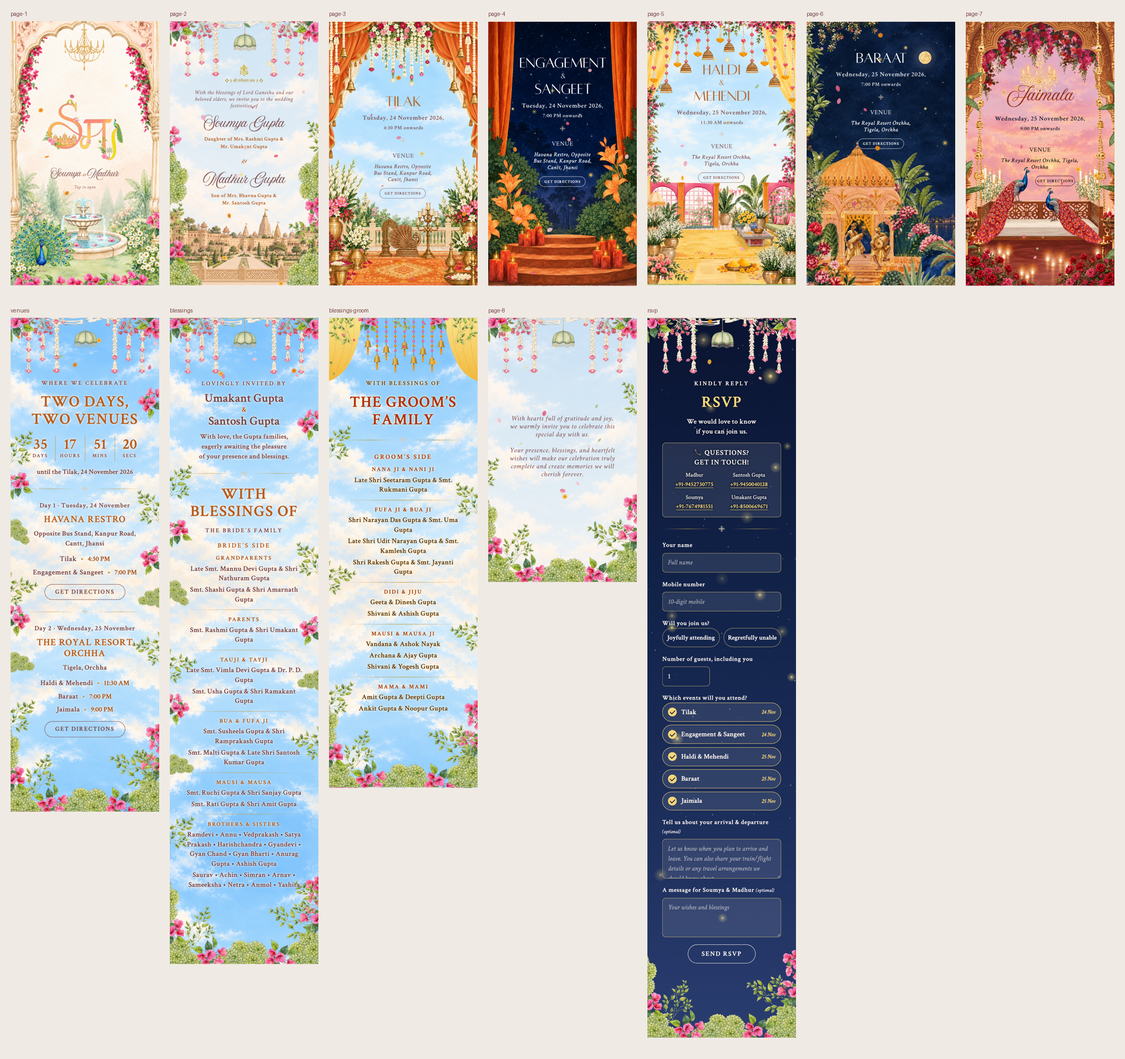
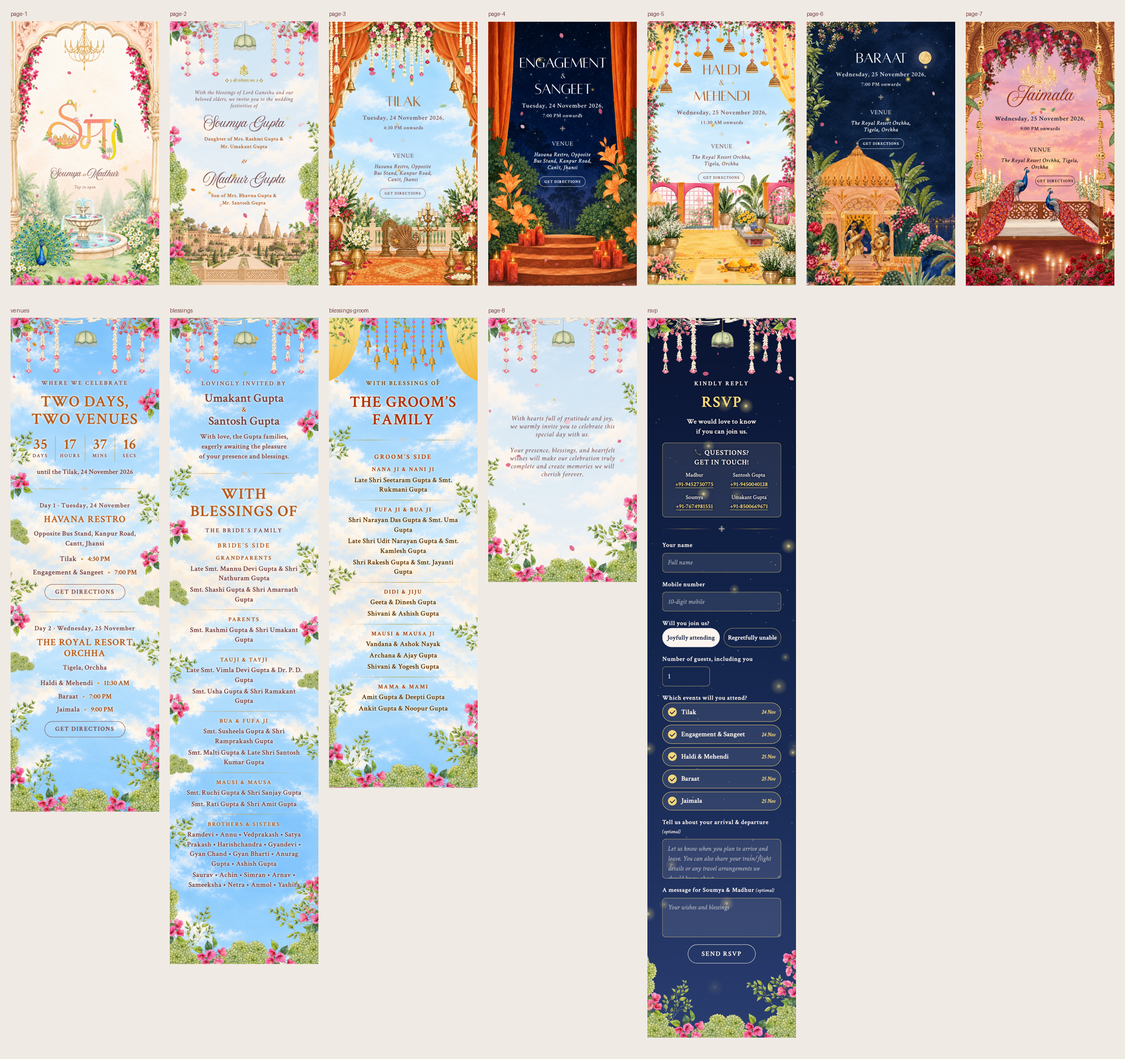
Reset RSVP form on each visit

diff --git a/Website/index.html b/Website/index.html
@@ -299,16 +299,16 @@ html.locked { overflow: hidden; }
     </ul>
   </aside>
   <div class="divider" aria-hidden="true"><span></span><img src="images/img-10-251x251.png" alt=""><span></span></div>
-  <form id="rsvp-form" novalidate>
+  <form id="rsvp-form" autocomplete="off" novalidate>
     <div class="f"><label for="rsvp-name">Your name</label>
-      <input id="rsvp-name" name="name" type="text" autocomplete="name" placeholder="Full name" aria-describedby="rsvp-name-error" required>
+      <input id="rsvp-name" name="name" type="text" autocomplete="off" placeholder="Full name" aria-describedby="rsvp-name-error" required>
       <p class="err field-err" id="rsvp-name-error" role="alert" hidden></p></div>
     <div class="f"><label for="rsvp-phone">Mobile number</label>
-      <input id="rsvp-phone" name="phone" type="tel" autocomplete="tel" inputmode="tel" placeholder="10-digit mobile" aria-describedby="rsvp-phone-error" required>
+      <input id="rsvp-phone" name="phone" type="tel" autocomplete="off" inputmode="numeric" placeholder="10-digit mobile" aria-describedby="rsvp-phone-error" required>
       <p class="err field-err" id="rsvp-phone-error" role="alert" hidden></p></div>
     <fieldset class="f" id="rsvp-attending" aria-describedby="rsvp-attending-error"><legend>Will you join us?</legend>
       <div class="choices">
-        <label class="pill"><input id="rsvp-yes" type="radio" name="attending" value="Joyfully attending" required><span>Joyfully attending</span></label>
+        <label class="pill"><input id="rsvp-yes" type="radio" name="attending" value="Joyfully attending" checked required><span>Joyfully attending</span></label>
         <label class="pill"><input id="rsvp-no" type="radio" name="attending" value="Regretfully unable"><span>Regretfully unable</span></label>
       </div><p class="err field-err" id="rsvp-attending-error" role="alert" hidden></p></fieldset>
     <div id="rsvp-more">
@@ -699,11 +699,16 @@ html.locked { overflow: hidden; }
   var raw = '';
   try { var q = new URLSearchParams(location.search); raw = q.get('to') || q.get('name') || ''; } catch (e) {}
   raw = raw.replace(/[\u0000-\u001f\u007f<>]/g, '').replace(/\s+/g, ' ').trim().slice(0, 60);
-  if (!raw) return;
   var el = document.getElementById('intro-to');
-  if (el) { el.textContent = 'Dear ' + raw; el.hidden = false; }
+  if (raw && el) { el.textContent = 'Dear ' + raw; el.hidden = false; }
   var f = document.getElementById('rsvp-name');
-  if (f && !f.value) f.value = raw;
+  function restoreInviteName() { if (f && raw) f.value = raw; }
+  restoreInviteName();
+  var form = document.getElementById('rsvp-form');
+  if (form) window.addEventListener('pageshow', function () {
+    form.reset();
+    restoreInviteName();
+  });
 })();
 </script>
 </body>

diff --git a/Source/pipeline/build.py b/Source/pipeline/build.py
@@ -528,16 +528,16 @@ EXTRA_SECTIONS = f"""
     </ul>
   </aside>
   {DIV}
-  <form id="rsvp-form" novalidate>
+  <form id="rsvp-form" autocomplete="off" novalidate>
     <div class="f"><label for="rsvp-name">Your name</label>
-      <input id="rsvp-name" name="name" type="text" autocomplete="name" placeholder="Full name" aria-describedby="rsvp-name-error" required>
+      <input id="rsvp-name" name="name" type="text" autocomplete="off" placeholder="Full name" aria-describedby="rsvp-name-error" required>
       <p class="err field-err" id="rsvp-name-error" role="alert" hidden></p></div>
     <div class="f"><label for="rsvp-phone">Mobile number</label>
-      <input id="rsvp-phone" name="phone" type="tel" autocomplete="tel" inputmode="tel" placeholder="10-digit mobile" aria-describedby="rsvp-phone-error" required>
+      <input id="rsvp-phone" name="phone" type="tel" autocomplete="off" inputmode="numeric" placeholder="10-digit mobile" aria-describedby="rsvp-phone-error" required>
       <p class="err field-err" id="rsvp-phone-error" role="alert" hidden></p></div>
     <fieldset class="f" id="rsvp-attending" aria-describedby="rsvp-attending-error"><legend>Will you join us?</legend>
       <div class="choices">
-        <label class="pill"><input id="rsvp-yes" type="radio" name="attending" value="Joyfully attending" required><span>Joyfully attending</span></label>
+        <label class="pill"><input id="rsvp-yes" type="radio" name="attending" value="Joyfully attending" checked required><span>Joyfully attending</span></label>
         <label class="pill"><input id="rsvp-no" type="radio" name="attending" value="Regretfully unable"><span>Regretfully unable</span></label>
       </div><p class="err field-err" id="rsvp-attending-error" role="alert" hidden></p></fieldset>
     <div id="rsvp-more">
@@ -1215,11 +1215,16 @@ html.locked {{ overflow: hidden; }}
   var raw = '';
   try {{ var q = new URLSearchParams(location.search); raw = q.get('to') || q.get('name') || ''; }} catch (e) {{}}
   raw = raw.replace(/[\\u0000-\\u001f\\u007f<>]/g, '').replace(/\\s+/g, ' ').trim().slice(0, 60);
-  if (!raw) return;
   var el = document.getElementById('intro-to');
-  if (el) {{ el.textContent = 'Dear ' + raw; el.hidden = false; }}
+  if (raw && el) {{ el.textContent = 'Dear ' + raw; el.hidden = false; }}
   var f = document.getElementById('rsvp-name');
-  if (f && !f.value) f.value = raw;
+  function restoreInviteName() {{ if (f && raw) f.value = raw; }}
+  restoreInviteName();
+  var form = document.getElementById('rsvp-form');
+  if (form) window.addEventListener('pageshow', function () {{
+    form.reset();
+    restoreInviteName();
+  }});
 }})();
 </script>
 </body>

diff --git a/Source/pipeline/check.py b/Source/pipeline/check.py
@@ -78,6 +78,7 @@ with sync_playwright() as p:
     check(pg.locator(".rsvp-contact-grid a[href^='tel:']").count() == 4, "four tap-to-call contact numbers appear above the RSVP")
     check(pg.locator("#rsvp-contact-h span").count() == 2, "contact heading is split over two lines")
     check("(optional)" in pg.locator("label[for='rsvp-travel']").inner_text() and "🚆" not in pg.locator("label[for='rsvp-travel']").inner_text(), "travel field is marked optional without an emoji")
+    check(pg.locator("#rsvp-phone").get_attribute("inputmode") == "numeric", "mobile phone field requests a numeric keyboard")
     pg.route("**/formResponse", lambda r, q: (sent.append(q.post_data), r.fulfill(status=200, body="ok")))
     pg.click("#intro-skip"); pg.wait_for_timeout(900)
     pg.evaluate("document.getElementById('rsvp').scrollIntoView()"); pg.wait_for_timeout(400)
@@ -98,7 +99,14 @@ with sync_playwright() as p:
     check(got == want, "attending reply maps to the Google Form exactly" + ("" if got == want else f"\n       sent {got}"))
     check(pg.is_visible("#rsvp-done"), "thank-you message shows")
 
-    pg.reload(); pg.wait_for_timeout(1200); pg.click("#intro-skip"); pg.wait_for_timeout(900)
+    pg.reload(); pg.wait_for_timeout(1200)
+    reset_state = pg.evaluate("""() => ({name: document.querySelector('#rsvp-name').value, phone: document.querySelector('#rsvp-phone').value,
+        attending: document.querySelector('#rsvp-yes').checked, guests: document.querySelector('#rsvp-guests').value,
+        events: [...document.querySelectorAll('#rsvp-events input')].filter(e => e.checked).length,
+        travel: document.querySelector('#rsvp-travel').value, message: document.querySelector('#rsvp-msg').value})""")
+    check(reset_state == {"name": "", "phone": "", "attending": True, "guests": "1", "events": 5, "travel": "", "message": ""},
+          "reload resets RSVP answers to the intentional defaults")
+    pg.click("#intro-skip"); pg.wait_for_timeout(900)
     pg.evaluate("document.getElementById('rsvp').scrollIntoView()"); pg.wait_for_timeout(400)
     pg.fill("#rsvp-name", "Decline Test"); pg.fill("#rsvp-phone", "9876543210"); pg.check("#rsvp-no"); pg.fill("#rsvp-msg", "Wishing you all the best")
     check(pg.locator("#rsvp-more").evaluate("e => e.hidden"), "decliners skip the attendee details")

diff --git a/Guides/OPEN-ITEMS.md b/Guides/OPEN-ITEMS.md
@@ -10,7 +10,7 @@ Use this list for work that is still pending. Check an item only after the chang
 - [ ] Review RSVP submission-error placement: the owner reports the error message appears near the submit button instead of immediately after the dialog box. The submit button has not been clicked, so this error state has not been reproduced or verified.
 - [ ] Investigate the reported Google Forms integration behavior: only the “Regretfully unable to come” response works; the attending choice and number-of-attendees/guest-count values reportedly do not work. This report has not been independently verified.
 - [ ] Audit the current Google Form against the website integration for questions, fields, and options that were added, removed, or renamed; update the website mapping as needed. Keep this integration open until the comparison is complete and RSVP responses work.
-- [ ] Make the RSVP form load its default values on each visit instead of restoring cached values from a previous visit, as requested by the owner.
+- [x] Reset RSVP answers on every visit or reload. Keep the intentional defaults (Joyfully attending, 1 guest, all events selected), leave other answers blank, and preserve personalized invite-name prefill.
 - [ ] (Deferred) Verify the Google Forms endpoint accepts the RSVP data. The form opened and the fields were inspected, but no response was submitted; do not submit a real RSVP as a test.
 - [ ] Ask Soumya to move the optional message question into section 1 of the Google Form so guests who decline can have their message saved.
 

diff --git a/Guides/RSVP-SETUP.md b/Guides/RSVP-SETUP.md
@@ -20,6 +20,7 @@ Guest replies can be viewed in that form under **Responses**.
 - To see replies as a spreadsheet: in the form, open **Responses**, then **Link to Sheets**.
 
 ## Good to know
+- The RSVP resets to its intentional defaults on each visit or reload: "Joyfully attending," one guest and all events selected. Previously entered answers are not restored; the arrival/departure and message fields start blank. Personalized invitation links still pre-fill the guest's name.
 - Guests who choose "Regretfully unable" skip the attendee details in section 2 and go to the wishes section 3. Their message is sent through that section; arrival/departure details are only sent for attendees.
 - The browser submits with `no-cors`, so it cannot read Google's response. The thank-you screen means the browser request did not fail at the network level; it cannot confirm that Google saved the reply. `python Source/make.py check` intercepts the request locally and verifies its fields without sending a real reply.
 - Replies send from the real website (Vercel) and from the local preview at http://localhost:8000. The Claude preview page blocks outside connections, so sending doesn't work there.
